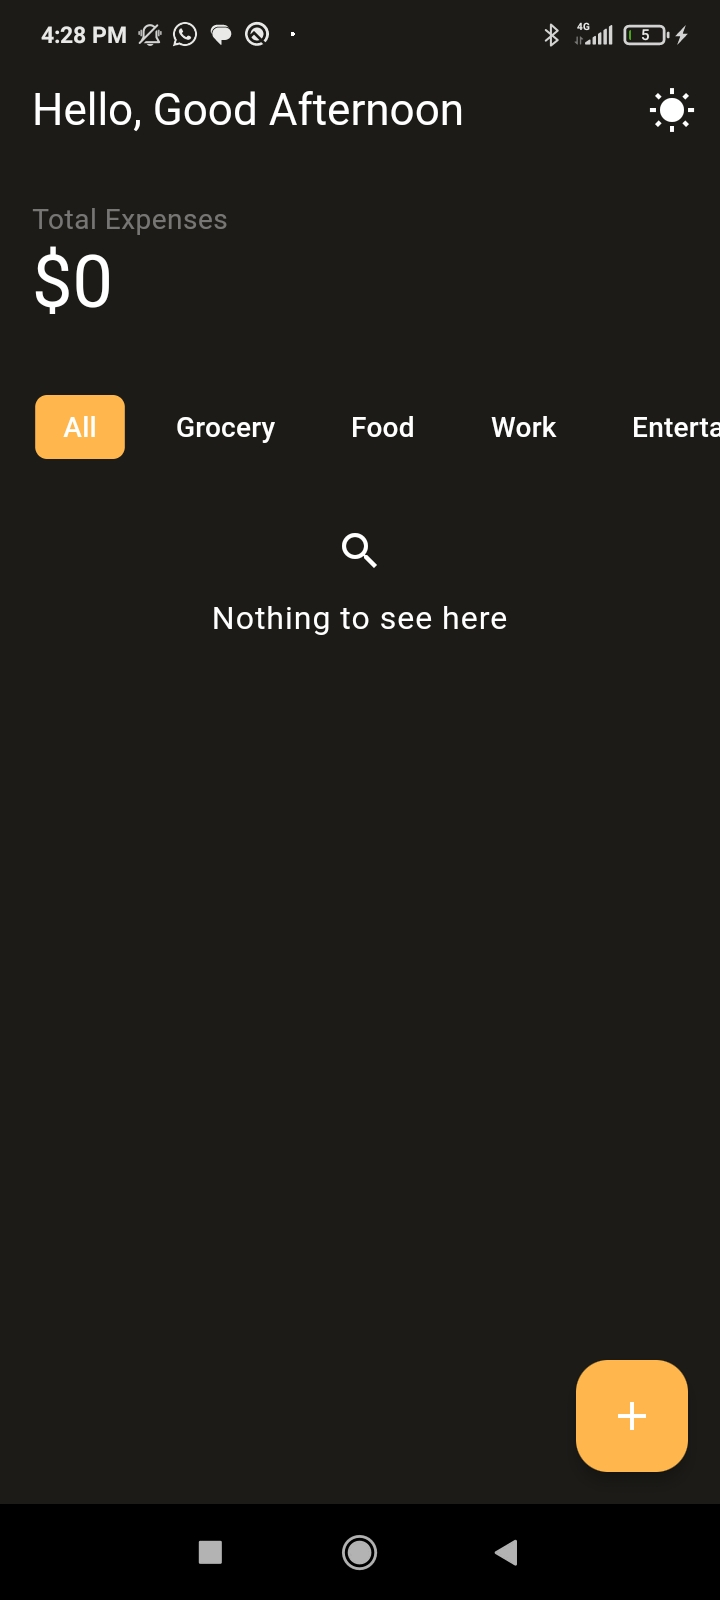
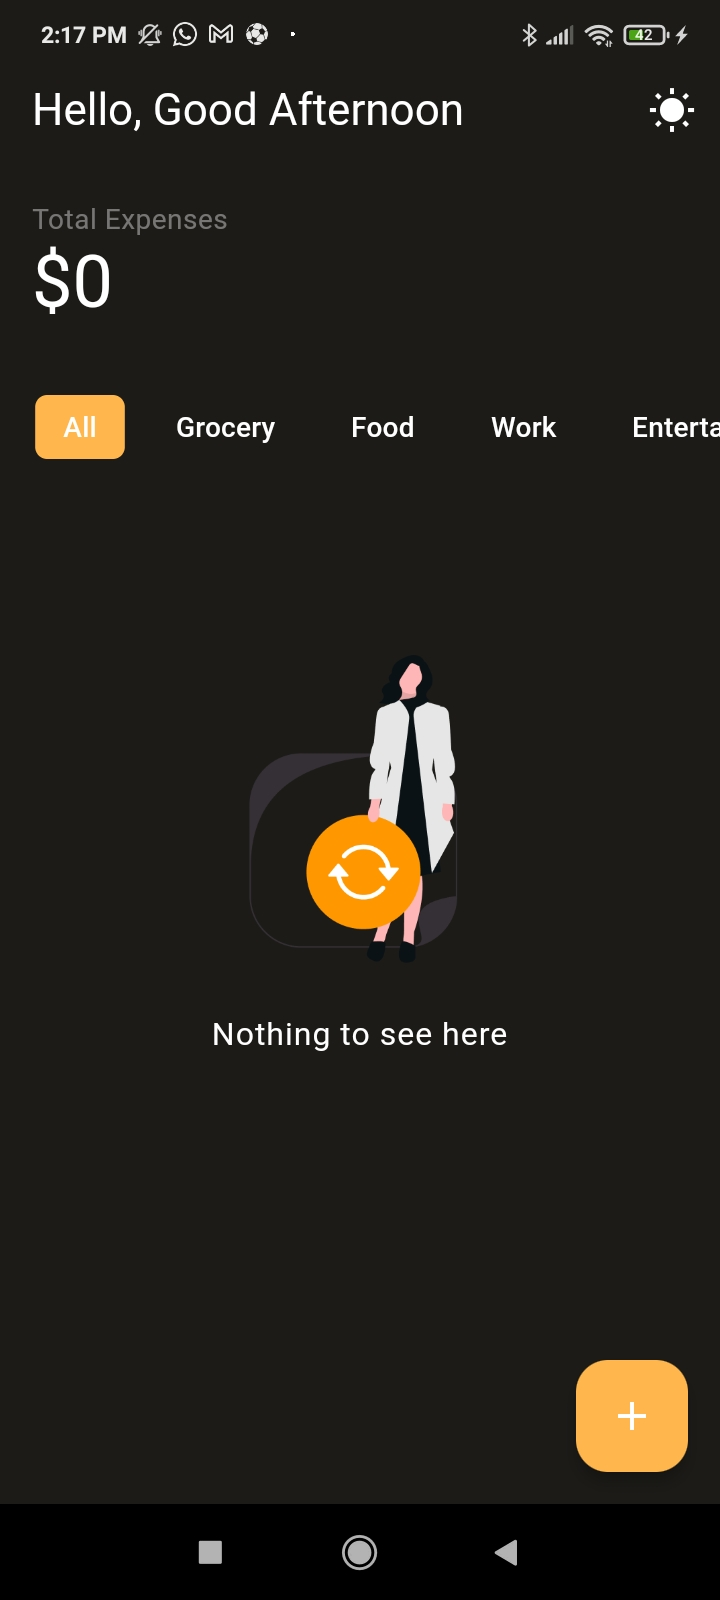
update home empty list design

diff --git a/lib/screens/on_boarding_page.dart b/lib/screens/on_boarding_page.dart
@@ -58,7 +58,7 @@ class _OnBoardingScreenState extends State<OnBoardingScreen> {
             child: const Text(
               "SKIP",
             ),
-            
+
           ),
         ],
       ),
@@ -115,8 +115,8 @@ class _OnBoardingScreenState extends State<OnBoardingScreen> {
                           curve: Curves.fastLinearToSlowEaseIn);
                     }
                   },
-                  child: const Icon(Icons.arrow_forward_outlined),
                   backgroundColor: colorScheme.inversePrimary,
+                  child: const Icon(Icons.arrow_forward_outlined),
                 )
               ],
             ),
@@ -145,13 +145,13 @@ class _OnBoardingScreenState extends State<OnBoardingScreen> {
         ),
       ),
       const SizedBox(
-        height: 15.0,
+        height: 6.0,
       ),
       Text(
         model.body,
         style: const TextStyle(
-          fontSize: 14.0,
-          fontWeight: FontWeight.bold,
+          fontSize: 18.0,
+          fontWeight: FontWeight.w300,
         ),
       ),
       const SizedBox(

diff --git a/lib/widgets/expenses_widget.dart b/lib/widgets/expenses_widget.dart
@@ -48,9 +48,17 @@ class EmptyListWidget extends StatelessWidget {
       padding: const EdgeInsets.all(16),
       alignment: Alignment.center,
       child: Column(
+        mainAxisAlignment: MainAxisAlignment.center,
         children: [
-          const Icon(Icons.search),
-          const SizedBox(height: 10),
+          const SizedBox(height: 64,),
+          SizedBox(
+            width: 220.0,
+            child: Image.asset(
+              "assets/images/search-failed.png",
+              fit: BoxFit.cover,
+            ),
+          ),
+          const SizedBox(height: 24,),
           Text(
             'Nothing to see here',
             textAlign: TextAlign.center,
